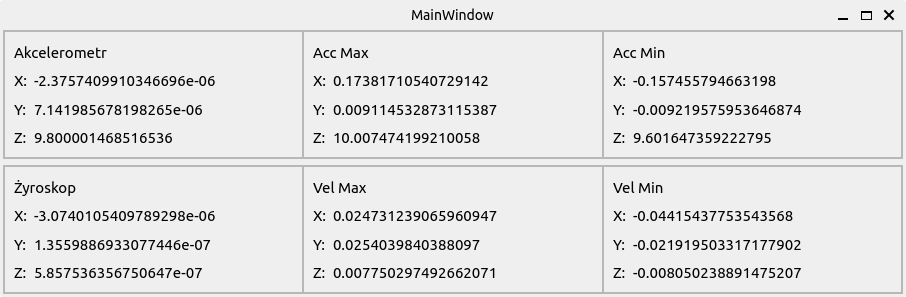
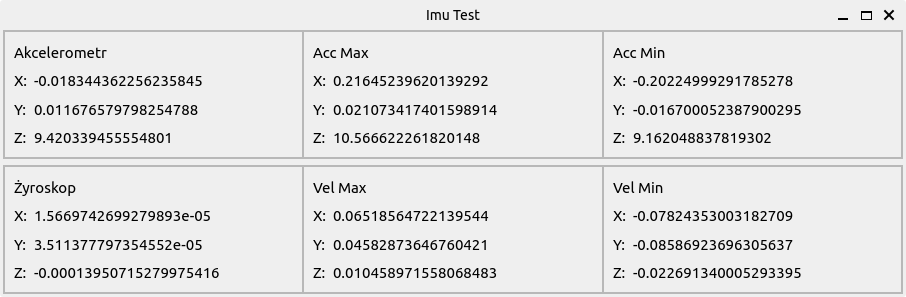
Title update

diff --git a/MainWindow.py b/MainWindow.py
@@ -225,7 +225,7 @@ class Ui_MainWindow(object):
 
     def retranslateUi(self, MainWindow):
         _translate = QtCore.QCoreApplication.translate
-        MainWindow.setWindowTitle(_translate("MainWindow", "MainWindow"))
+        MainWindow.setWindowTitle(_translate("MainWindow", "Imu Test"))
         self.label.setText(_translate("MainWindow", "X:"))
         self.linear_acc_x_label.setText(_translate("MainWindow", "0.0"))
         self.label_3.setText(_translate("MainWindow", "Y:"))
